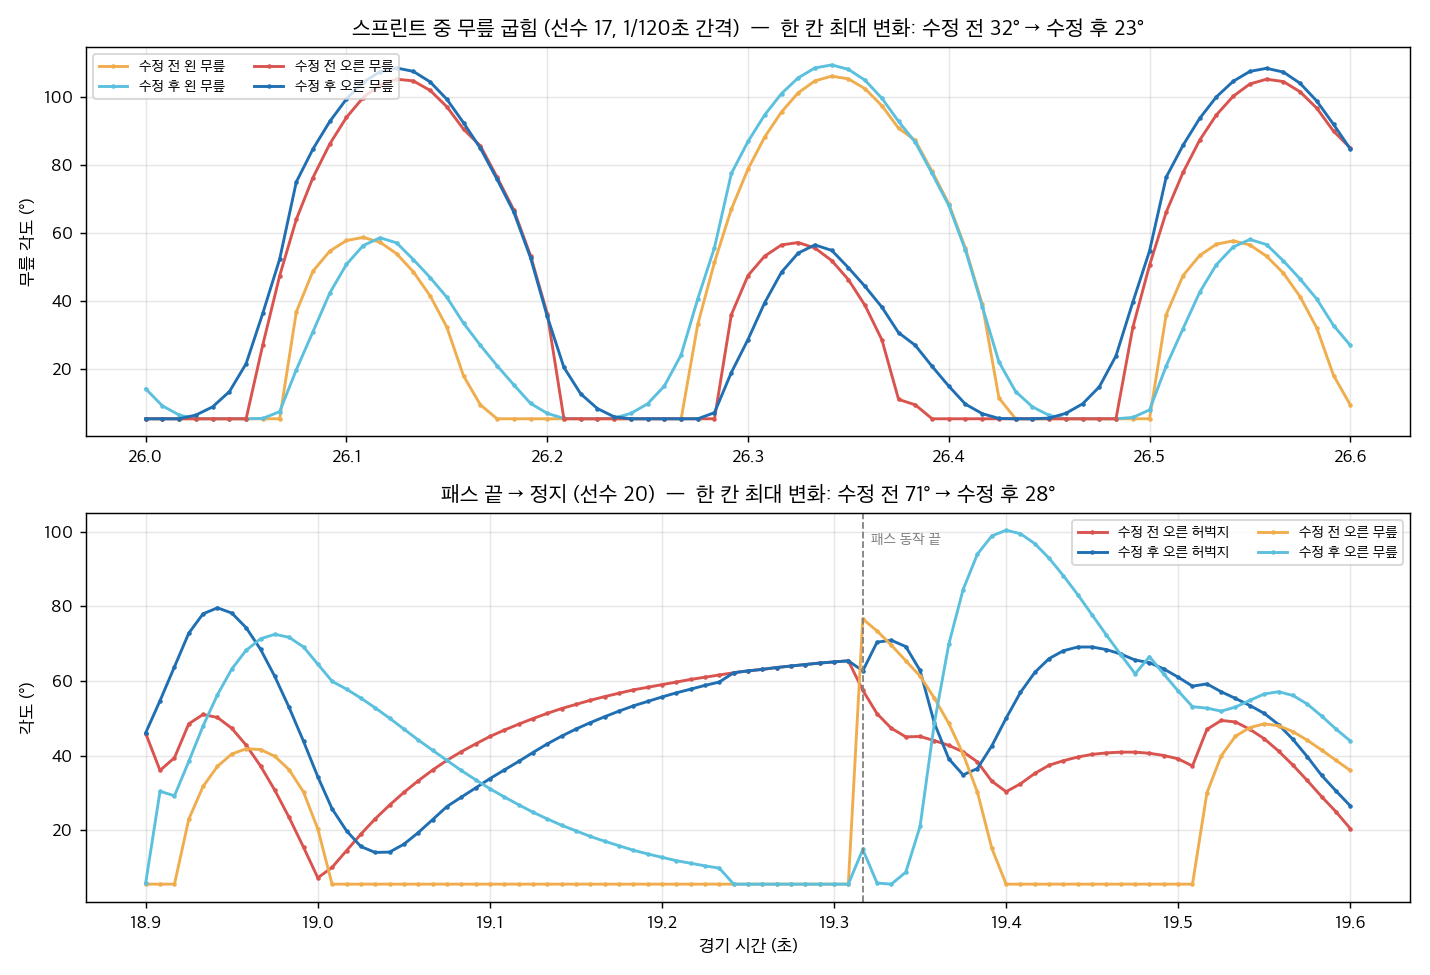
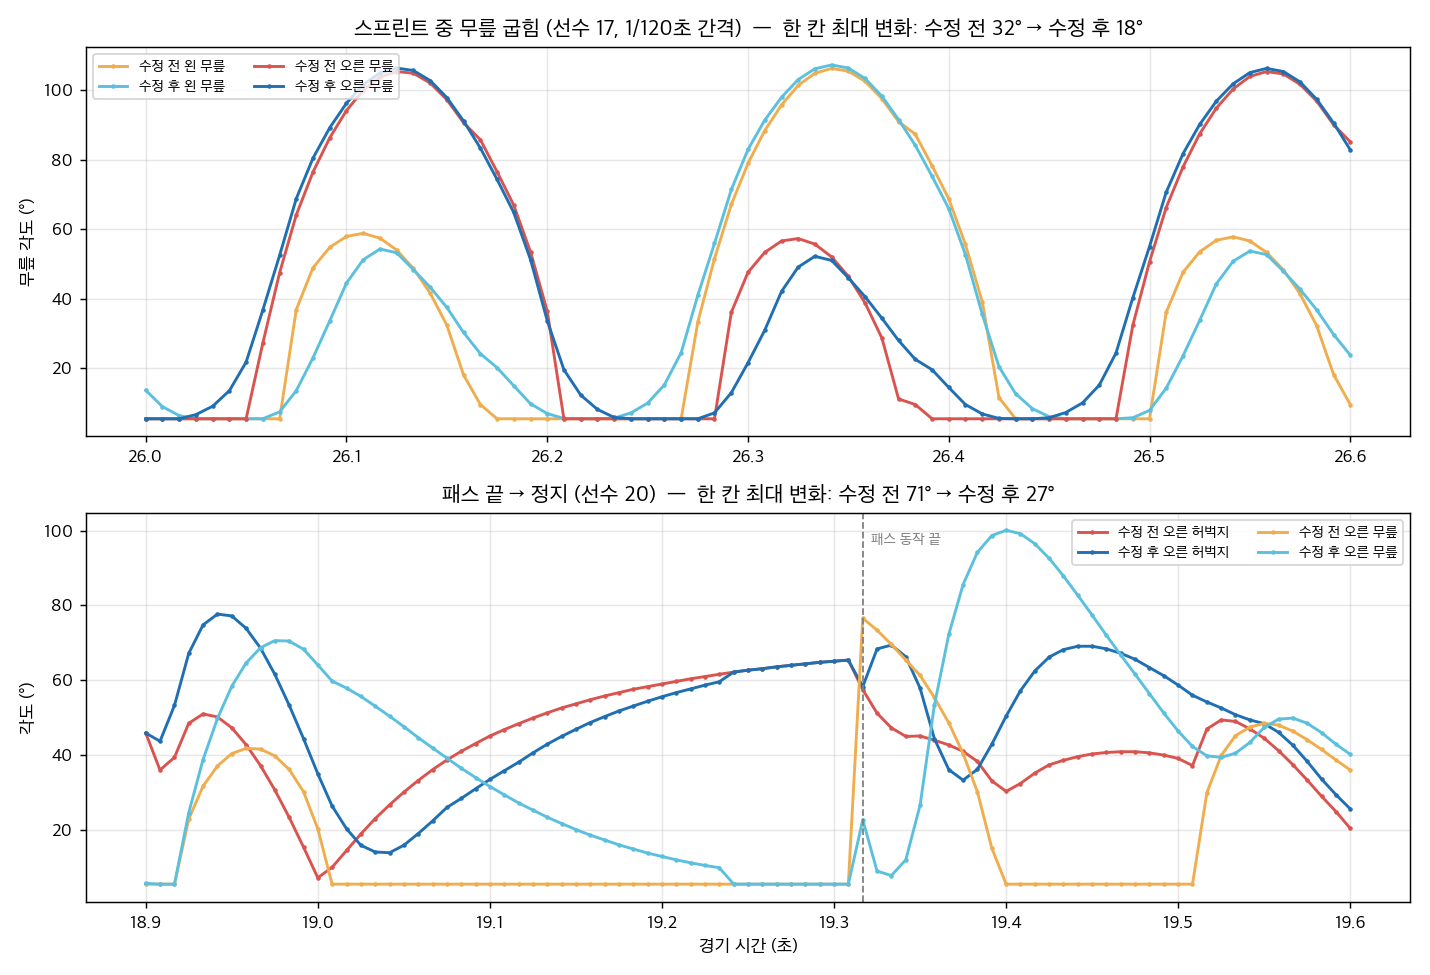
튐 2차 수정: 발 보정 재계산 때 멈춤 제거, 골반 보정 상승 곡선, 팔 흔들기 무게값
AI 11대11 60초 기준 1,587 -> 355. 상태 전환 순간 무릎 튐 259 -> 6.
1차 분석의 'B = 소프트 IK 이중 적용'은 틀렸음: 실제 원인은 보정을 다시 걸 때
발이 한 프레임 멈추는 것. 소프트 IK 한 번만 적용도 같이 반영.

diff --git a/src/foot-plant.js b/src/foot-plant.js
@@ -2,7 +2,7 @@ import * as THREE from '../vendor/three.module.js';
 import {decayOffset} from './inertial-motion.js';
 import {locomotionCadence,stanceFraction} from './motion-planner.js';
 const down=new THREE.Vector3(0,-1,0),v=new THREE.Vector3(),q=new THREE.Quaternion();
-const clamp=(n,a,b)=>Math.max(a,Math.min(b,n)),smooth=t=>t*t*(3-2*t),liftFade=.075,gaitSoft=.04;
+const clamp=(n,a,b)=>Math.max(a,Math.min(b,n)),smooth=t=>t*t*(3-2*t),liftFade=.075,gaitSoft=.04,hipRise=.04;
 
 // Soft IK: near full extension the knee angle changes without bound per millimetre of target
 // travel, so a leg reaching for a target just past its length straightened or bent in one
@@ -113,7 +113,10 @@ function stabilizeGait(rig,p,pose,dt){
  // limb reach. This changes the rendered pose only, never player/ball physics.
  let correction=0;for(let i=0;i<2;i++)if(state.feet[i]){const hip=rig.legs[i].upper.getWorldPosition(new THREE.Vector3()),goal=targets[i],reach=(rig.bodyMetrics.upperLeg+rig.bodyMetrics.lowerLeg-.003-gaitSoft*.4)*size,horizontal=(hip.x-goal.x)**2+(hip.z-goal.z)**2,maxY=goal.y+Math.sqrt(Math.max(.04,reach*reach-horizontal));correction=Math.max(correction,hip.y-maxY);}
  const desired=Math.min(.045,Math.max(0,correction/size));
- state.hipCorrection=Math.max(desired,(state.hipCorrection||0)*Math.exp(-dt/0.065));
+ // Rise on a curve as well as fall: jumping to the full correction on the landing frame dropped
+ // the pelvis 5.6 cm in one 1/120 s step and bent the knee of the held foot 7 -> 50 degrees.
+ const heldCorrection=state.hipCorrection||0;
+ state.hipCorrection=desired>heldCorrection?heldCorrection+(desired-heldCorrection)*(1-Math.exp(-dt/hipRise)):Math.max(desired,heldCorrection*Math.exp(-dt/0.065));
  rig.hips.position.y-=state.hipCorrection;
  let error=0,locks=0;for(let i=0;i<2;i++){const result=solveFoot(rig,i,targets[i],gaitSoft*size);if(state.feet[i]){error=Math.max(error,result.error);locks++;}state.previous[i]=rig.legs[i].foot.getWorldPosition(new THREE.Vector3());}
  rig.plantError=error;rig.plantLocks=locks;
@@ -125,6 +128,13 @@ function stabilizeGait(rig,p,pose,dt){
 // render step. Carry the last drawn foot position and velocity across such a switch, and
 // across any step faster than a real foot, then decay the offset to the new pose.
 const footLimit=22,rawFoot=new THREE.Vector3(),footGoal=new THREE.Vector3();
+// Pull a goal that lies past the raw foot's reach back toward the leg length on the same
+// exponential as softReach, starting from the raw reach so an unchanged goal stays exact.
+function softenBeyond(rig,i,raw,goal,soft){
+ const leg=rig.legs[i],hip=leg.upper.getWorldPosition(new THREE.Vector3()),knee=leg.lower.getWorldPosition(new THREE.Vector3()),ankle=leg.foot.getWorldPosition(new THREE.Vector3());
+ const length=hip.distanceTo(knee)+knee.distanceTo(ankle),start=Math.max(raw.distanceTo(hip),length-soft),toGoal=goal.clone().sub(hip),r=toGoal.length();
+ if(r<=start)return;const room=Math.max(1e-4,length-start);goal.copy(hip).addScaledVector(toGoal.normalize(),start+room*(1-Math.exp(-(r-start)/room)));
+}
 export function inertializeFeet(rig,p,pose,dt){
  dt=Math.max(.001,Math.min(dt,.1));
  const state=rig.footOutput||(rig.footOutput={key:null,root:null,feet:[null,null]}),action=p.action;
@@ -139,12 +149,25 @@ export function inertializeFeet(rig,p,pose,dt){
   const rawVelocity=raw.clone().sub(f.raw).multiplyScalar(1/dt);f.age+=dt;
   let correction=f.age<.5?decayOffset(f.offset,f.offsetVelocity,f.age):null;
   const candidate=correction?raw.clone().add(correction):raw;
-  if(switched||candidate.distanceTo(f.out)/dt>footLimit){f.offset=f.out.clone().sub(raw);f.offsetVelocity=f.vel.clone().sub(rawVelocity).clampLength(0,footLimit);f.age=0;correction=f.offset.clone();}
+  // Re-base from where the foot would be now at its last velocity, not from where it was last
+  // frame: holding the old position stopped a swinging foot for one step (6 cm at a sprint) while
+  // the pelvis moved on, and the knee bent up to 31 degrees on every state-label change.
+  // Only a state switch carries the velocity. A re-base fired by the speed check starts from the
+  // last drawn position: carrying velocity there fed itself every frame and a standing player's
+  // foot flew off at 14 m/s.
+  const carried=switched?f.out.clone().addScaledVector(f.vel.clone().clampLength(0,footLimit),dt):f.out.clone();
+  if(switched||candidate.distanceTo(f.out)/dt>footLimit){f.offset=carried.sub(raw);f.offsetVelocity=f.vel.clone().sub(rawVelocity).clampLength(0,footLimit);f.age=0;correction=f.offset.clone();}
   // The kicking boot converges on the contact target: the offset fades out on the same curve that
   // raises the contact IK, so it is zero at impact and nothing is dropped in one step.
   if(correction&&kicking&&i===kickIndex){const fromContact=action.elapsed-action.contactAt,exact=fromContact<-.055?smooth(clamp((fromContact+.18)/.125,0,1)):fromContact>.055?1-smooth(clamp((fromContact-.055)/.18,0,1)):1;correction.multiplyScalar(1-exact);}
   let drawn=raw;
-  if(correction&&correction.lengthSq()>4e-6){footGoal.copy(raw).add(correction);footGoal.y=Math.max(sole,footGoal.y);solveFoot(rig,i,footGoal,rig.plantState?.mode==='gait'?gaitSoft*rig.root.scale.y:0);drawn=rig.legs[i].foot.getWorldPosition(new THREE.Vector3());}
+  if(correction&&correction.lengthSq()>4e-6){
+   footGoal.copy(raw).add(correction);footGoal.y=Math.max(sole,footGoal.y);
+   // raw is already this frame's soft-IK result. Solving the goal with soft IK again shortened an
+   // already shortened leg, so near full extension the knee bent up to 31 degrees with the foot in
+   // place. Only the part of the goal beyond the raw reach is softened: soft IK applies once.
+   if(rig.plantState?.mode==='gait')softenBeyond(rig,i,raw,footGoal,gaitSoft*rig.root.scale.y);
+   solveFoot(rig,i,footGoal);drawn=rig.legs[i].foot.getWorldPosition(new THREE.Vector3());}
   f.vel=drawn.clone().sub(f.out).multiplyScalar(1/dt);f.out=drawn.clone();f.raw=raw;
  }
 }

diff --git a/src/motion.js b/src/motion.js
@@ -77,11 +77,12 @@ export function sampleMotion(p={},phase=0,time=0,ball=null,celebrate=false,kinem
  if(p.down>0){pose.state=p.down<.3?'recover':'fall';const weight=smooth(p.down/.3);pose.rootRoll=weight*1.15*(p.interaction?.side||1);pose.hipY=lerp(.87,.28,weight);pose.torso[0]=weight*.25;pose.legs[0].lower[0]=weight*1.4;pose.legs[1].lower[0]=weight*.8;pose.arms[0].upper=[-.5,0,1.1];pose.arms[1].upper=[-.5,0,-.5];}
  if(celebrate&&!p.down&&!action){pose.state='celebrate';pose.arms[0].upper=[-.2,0,2.5];pose.arms[1].upper=[-.2,0,-2.5];pose.rootY=Math.max(0,Math.sin(time*5+p.id))*.12;}
  for(const arm of pose.arms)arm.upper[2]*=-1;
+ // The captured gait and the arm swing used to switch on and off with "running forward"
+ // (forward > 0.65 x speed) in one frame, without a state change for the inertial blend to cover.
+ // Both now use one weight: 0 at 0.5 and 1 at 0.8 of speed forward, followed by the renderer over
+ // 0.2 s (kinematics.capture).
+ const captureTarget=!action&&!p.shield&&speed>.25?smooth((forward/speed-.5)/.3):0,capture=kinematics.capture??captureTarget;pose.captureTarget=captureTarget;
  if(!p.down&&!p.dive&&!celebrate){
-  // The captured gait used to switch on and off with "running forward" (forward > 0.65 x speed)
-  // in one frame, without a state change for the inertial blend to cover. It is now a weight:
-  // 0 at 0.5 and 1 at 0.8 of speed forward, followed by the renderer over 0.2 s (kinematics.capture).
-  const captureTarget=!action&&!p.shield&&speed>.25?smooth((forward/speed-.5)/.3):0,capture=kinematics.capture??captureTarget;pose.captureTarget=captureTarget;
   if(!action&&capture>.001&&speed>.25){const cycle=((phase/(Math.PI*2))%1+1)%1;
    const jog=smooth((speed-1.5)/1.3),run=smooth((speed-3.5)/1.5),weight=smooth((speed-.25)/.9)*.78*capture;
    // CMU 16_15 lands its right foot at cycle 0.02 and left at 0.61, half a stride away from the
@@ -112,7 +113,7 @@ export function sampleMotion(p={},phase=0,time=0,ball=null,celebrate=false,kinem
  }
  // Keep the running swing opposite the legs; transferred shoulder twist is not
  // compatible with this rig's straight upper-arm bind pose.
- if(!action&&!p.down&&!p.dive&&!celebrate&&!p.shield&&!p.defending&&forward>speed*.65&&speed>1.2){const w=smooth((speed-1.2)/2.4);for(let i=0;i<2;i++){const arm=pose.arms[i],side=i===0?-1:1;arm.upper[0]=lerp(arm.upper[0],clamp(-(pose.legs[i].upper[0]-pose.legs[1-i].upper[0])*.55,-.58,.66),w);arm.upper[1]*=1-w*.95;arm.upper[2]=lerp(arm.upper[2],side*.16,w);arm.lower[0]=lerp(arm.lower[0],-1.12-sprint*.14,w);arm.lower[1]*=1-w;arm.lower[2]*=1-w;}}
+ if(!action&&!p.down&&!p.dive&&!celebrate&&!p.shield&&!p.defending&&capture>.001&&speed>1.2){const w=smooth((speed-1.2)/2.4)*capture;for(let i=0;i<2;i++){const arm=pose.arms[i],side=i===0?-1:1;arm.upper[0]=lerp(arm.upper[0],clamp(-(pose.legs[i].upper[0]-pose.legs[1-i].upper[0])*.55,-.58,.66),w);arm.upper[1]*=1-w*.95;arm.upper[2]=lerp(arm.upper[2],side*.16,w);arm.lower[0]=lerp(arm.lower[0],-1.12-sprint*.14,w);arm.lower[1]*=1-w;arm.lower[2]*=1-w;}}
  // Separate receiving, turning and goalkeeper poses are authored independently of the kick capture.
  if(!action&&p.receivePrep&&time<p.receivePrep.until){const r=p.receivePrep,w=r.weight,i=r.foot==='left'?0:1;pose.state='receive-prepare';pose.hipY-=w*.026;pose.torso[0]+=.07*w;pose.torso[1]+=(i===0?-1:1)*.16*w;pose.arms[0].upper[2]-=.25*w;pose.arms[1].upper[2]+=.25*w;if(r.eta<.32){pose.legs[i].upper[0]-=.22*w;pose.legs[i].lower[0]+=.23*w;pose.legs[i].upper[1]=(i===0?-.38:.38)*w;pose.feet[i][1]=(i===0?-.38:.38)*w;pose.contacts[i]=0;}}
  if(!action&&p.receive&&time<p.receive.start+p.receive.duration){const r=p.receive,t=clamp((time-r.start)/r.duration,0,1),w=Math.sin(t*Math.PI),i=r.foot==='left'?0:1;pose.state='receive-'+r.kind;pose.hipY-=w*.03;if(r.kind==='chest'){pose.torso[0]=-.17*w;pose.arms[0].upper[2]=-.6*w;pose.arms[1].upper[2]=.6*w;pose.head[0]=.08*w;}else{pose.legs[i].upper[0]-=w*(r.kind==='thigh'?.9:r.kind==='instep'?.48:.18);pose.legs[i].upper[1]=r.kind==='inside'?(i===0?-.38:.38)*w:0;pose.legs[i].lower[0]+=.26*w;pose.feet[i][1]=(i===0?-.38:.38)*w;pose.contacts[i]=0;}}

diff --git a/docs/MOTION-POPS.md b/docs/MOTION-POPS.md
@@ -1,5 +1,7 @@
 # 관절 튐 수정 (fix/motion-pops)
 
+> **최신 결과: 5,308 → 1,587(1차) → 355(2차, 아래 "2차 수정").**
+
 모캡(B 리그)을 넣기 전에, 발 IK와 상태 판정 때문에 생기는 관절 튐을 먼저 줄인 기록입니다. 2번(애니메이션) 담당 파일이 대부분이라 검토 요청용으로 정리했습니다.
 
 ## 측정 조건
@@ -172,3 +174,52 @@
 | H 골키퍼 | 아니요 → 7단계 | 골키퍼 클립 |
 
 측정 원본(튐마다 기록한 값)은 로컬 도구로 만든 것이라 저장소에 넣지 않았습니다. 같은 조건으로 다시 잴 수 있습니다.
+
+
+## 2차 수정 (2026-09-26)
+
+같은 조건(AI 11대11, 60초, seed 5, 15° 기준)으로 측정했습니다.
+
+### 바꾼 것 (src/foot-plant.js, src/motion.js)
+
+1. **B. 발 보정을 다시 걸 때 발이 한 프레임 멈추던 문제**
+   - 1차 분석에서 원인을 "소프트 IK 이중 적용"으로 적었는데, **틀렸습니다.**
+   - 소프트 IK를 한 번만 적용하도록 고친 뒤(`softenBeyond`: 이번 프레임 발 위치보다 먼 부분만 부드럽게) 다시 재보니, B는 299 → 390으로 오히려 늘었습니다.
+   - 다시 추적하니 진짜 원인은 따로 있었습니다. 보정을 다시 걸 때 **직전 프레임 위치**에서 시작해서, 전력질주 중 공중에 있는 발이 한 프레임 멈췄습니다(선수 14, 25.80초: 한 칸 6 cm씩 가던 발이 0 cm). 그동안 골반은 계속 앞으로 가서 무릎이 5° → 37°로 꺾였습니다.
+   - 수정: 상태가 바뀌어 보정을 다시 걸 때는 **직전 속도로 한 프레임 더 간 위치**에서 시작합니다(속도는 22 m/s로 제한).
+   - 첫 시도에서는 속도 기준으로 다시 걸릴 때도 속도를 이어받게 했습니다. 그랬더니 이어받은 속도가 매 프레임 다시 이어지는 되먹임이 생겨서, 서 있는 선수의 발이 14 m/s로 날아갔습니다(선수 12, 30.29초, 발목 145°).
+   - 그래서 속도를 이어받는 건 상태가 바뀔 때만 하도록 했습니다. 속도 기준으로 다시 걸 때 0.05초 동안 잠그는 방식도 비교했는데, 457번으로 더 많아서 쓰지 않았습니다.
+   - 소프트 IK를 한 번만 적용하는 수정도 맞는 수정이라 그대로 두었습니다.
+2. **A 중 발 고정 쪽: `hipCorrection`이 올라갈 때도 곡선으로.** 내려갈 때처럼 지수 곡선으로 따라가고, 시간 상수는 0.04초입니다. 이전에는 착지 프레임에 한 번에 올라가서 골반이 5.6 cm 떨어졌습니다.
+3. **C. 팔 흔들기 켜짐/꺼짐 → 무게값.**
+   - `forward > 0.65×speed` 조건을 1-3의 모캡과 같은 무게값(앞으로 가는 비율 0.5~0.8에서 0→1, 0.2초에 걸쳐 따라감)으로 바꿨습니다.
+   - 무게값 계산은 두 블록이 같이 쓰도록 `sampleMotion` 위쪽으로 옮겼습니다.
+
+### 결과
+
+| 원인 | 1차 후 | 2차 후 |
+|---|---|---|
+| A 착지 순간 골반 높이 급변 | 552 | 74 |
+| B 발 보정 재계산 | 299 | 34 |
+| C 팔 흔들기 켜짐/꺼짐 | 261 | 0 |
+| I 걸음 IK 기타 | 279 | 44 |
+| E 볼 받기 | 59 | 56 |
+| F 어깨 싸움 | 28 | 39 |
+| D 슛·패스 | 29 | 32 |
+| G 턴 계획 | 29 | 29 |
+| H 골키퍼 | 13 | 13 |
+| J 자세 공식 기타 | 38 | 34 |
+| **합계** | **1,587** | **355** |
+
+| 확인 항목 | 값 |
+|---|---|
+| 상태 전환 순간 무릎 튐 (수정 전 114, 1차 후 259) | **6** |
+| 상태 전환 순간 발목 튐 (수정 전 19, 1차 후 78) | 0 |
+| 튐 크기 중앙값 / 상위 10% / 최대 | 19.2° / 33.3° / 59.9° |
+| 45° 넘는 튐 | 11 |
+| 디딤발이 땅에서 뜬 높이 상위 5% | 2.8 cm (수정 전 6.5 cm) |
+| 패스 임팩트 순간 발-공 목표 거리 (4회) | 6.8 / 19.9 / 7.9 / 7.0 cm (수정 전과 같음) |
+| 스프린트 무릎 한 칸 최대 변화 (선수 17) | 32° → 18° |
+| 패스 끝 다리 한 칸 최대 변화 (선수 20) | 71° → 27° |
+
+남은 큰 튐은 대부분 볼 받기(receive-prepare의 발목 50~60°)와 어깨 싸움입니다. 둘 다 공 다루기(7단계)와 물리 반응(9단계) 범위입니다.
